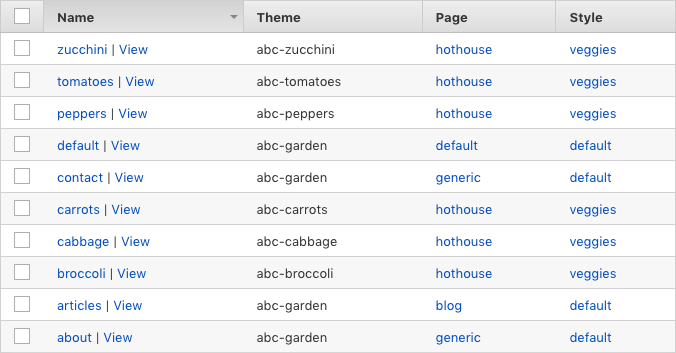
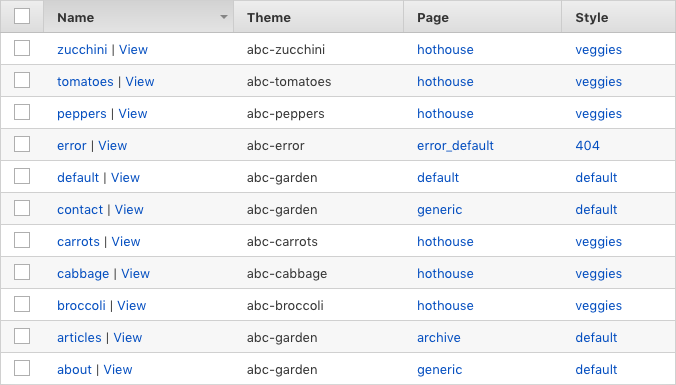
new images and structural revisions

diff --git a/build/themes-creating-using-and-sharing.md b/build/themes-creating-using-and-sharing.md
@@ -390,11 +390,11 @@ We assume at this point that you have now established all your needed themes and
 
 Under the Pages, Forms, and Styles columns of the themes table in the Themes panel are linked numbers indicating how many assets of each type are associated to a given theme; in other words, the theme packages contents (metadata excluded).
 
-![Themes panel assets columns](/img/themes-panel-assets-columns.png)
+![Themes assets numbers indication](/img/themes-assets-numbers-indication.png)
 
 When you duplicate the default theme (as the next image depicts), or any other theme, the existing assets in the source theme are cloned as well, logically, thus why the duplicated themes have the same number.
 
-![Themes panel sections and assets](/img/themes-panel-sections-and-assets.png)
+![Themes sections and assets numbers](/img/themes-sections-and-assets-numbers.png)
 
 These numbers can change between themes, of course, as you add or remove assets in a given theme.
 
@@ -446,7 +446,7 @@ Also, there’s only one page and style asset name in each case. This indicates 
 
 In contrast to assigning assets with common names, as just explained above, you could also assign assets having different names, whether for a new development theme or an existing live theme.
 
-![Themes different asset names indication](/img/themes-different-asset-names-indication.png)
+![Themes different asset names indication](/img/themes-assets-names-indication.png)
 
 As with the appearance of different theme names, the differently assigned asset names also appear above the asset names working live on the front end, separated by dashed lines. If both a new development theme and a differently-named asset are assigned, they will appear aligned across columns by their positions above the dashed lines.
 
@@ -526,13 +526,13 @@ One caveat: The assumption here is we are working in a local development locatio
 
 #### Map the desired structure
 
-Say we have a gardener’s website and the owner wants a different vegetable theme on each of the website’s six main vegetable sections, plus a general theme on the homepage and auxiliary pages using different page templates.
+Say we have a gardener’s website, The Gardener’s Delight, and the owner wants a different vegetable theme on each of the website’s six main vegetable sections, plus a general theme on the homepage and auxiliary pages, and a clever 404 error page having its own dashing design.
 
 This could be structured in any number of ways, but Table 1 shows one possible blueprint for this mapping, which is neither too exaggerated nor ideally concise.
 
 <div class="tabular-data" itemscope itemtype="https://schema.org/Table">
 <table>
-<caption>Table 1. Example mapping of multiple themes to different website sections.</caption>
+<caption>Table 1. Example mapping of the Gardener’s Delight website using multiple themes and assets to different website sections.</caption>
 <thead>
 <tr>
 <th scope="col"></th>
@@ -552,9 +552,9 @@ This could be structured in any number of ways, but Table 1 shows one possible b
 </tr>
 <tr>
 <th scope="row">2</th>
-<td>blog</td>
-<td>abc-garden</td>
 <td>articles</td>
+<td>abc-garden</td>
+<td>archive</td>
 <td>default</td>
 </tr>
 <tr>
@@ -573,41 +573,48 @@ This could be structured in any number of ways, but Table 1 shows one possible b
 </tr>
 <tr>
 <th scope="row">5</th>
+<td>error</td>
+<td>abc-error</td>
+<td>error_default</td>
+<td>404</td>
+</tr>
+<tr>
+<th scope="row">6</th>
 <td>broccoli</td>
 <td>abc-broccoli</td>
 <td>hothouse</td>
 <td>veggies</td>
 </tr>
 <tr>
-<th scope="row">6</th>
+<th scope="row">7</th>
 <td>cabbage</td>
 <td>abc-cabbage</td>
 <td>hothouse</td>
 <td>veggies</td>
 </tr>
 <tr>
-<th scope="row">7</th>
+<th scope="row">8</th>
 <td>carrots</td>
 <td>abc-carrots</td>
 <td>hothouse</td>
 <td>veggies</td>
 </tr>
 <tr>
-<th scope="row">8</th>
+<th scope="row">9</th>
 <td>peppers</td>
 <td>abc-peppers</td>
 <td>hothouse</td>
 <td>veggies</td>
 </tr>
 <tr>
-<th scope="row">9</th>
+<th scope="row">11</th>
 <td>tomatoes</td>
 <td>abc-tomatoes</td>
 <td>hothouse</td>
 <td>veggies</td>
 </tr>
 <tr>
-<th scope="row">10</th>
+<th scope="row">11</th>
 <td>zucchini</td>
 <td>abc-zucchini</td>
 <td>hothouse</td>
@@ -615,7 +622,7 @@ This could be structured in any number of ways, but Table 1 shows one possible b
 </tr>
 </tbody>
 <tfoot><tr><td colspan="5"><ol class="list--refmarks">
-<li>Theme names all begin with a developer prefix; in this case, the prefix reserved for documentation examples, ‘abc’.</li>
+<li>Theme names begin with a developer prefix; in this case, the prefix reserved for documentation examples, ‘abc’.</li>
 <li>The website’s homepage.</li>
 </ol></td></tr></tfoot>
 </table>
@@ -623,61 +630,90 @@ This could be structured in any number of ways, but Table 1 shows one possible b
 
 For clarity, here are the counts and types of theme asset assignments to sections reflected in Table 1:
 
-*  two one-to-one page pairings to sections; i.e. default (1), articles (1)
-*  two one-to-many page pairings to sections; i.e. generic (2), hothouse (6)
-*  two one-to-many style pairings to sections; i.e. default (4), veggies (6).
+*  three one-to-one page pairings to sections: default (1), archive (1), error_default (1)
+*  two one-to-many page pairings to sections: generic (2), hothouse (6)
+*  one one-to-one style pairing to sections: 404 (1)
+*  two one-to-many style pairings to sections: default (4), veggies (6).
 
 The map allows setting up a Textpattern website structure and theme development environment with purpose. With the map at hand, we can use what has already been learned in earlier sections of this document. And if we proceed in a particular order, a lot of jumping around in the back end can be eliminated. (Of course, learning by trial and error is always good too.)
 
-#### Site structure recap 
+#### Site structure recap
 
-First, [create or edit the sections](#add-or-edit-live-sections) you mapped as needing in your blueprints table, and delete the ones you don’t need. It doesn’t matter what page and style you assign to sections when creating them, you will change that later after all theme packages are established. Just use the default options for the time being since you have to assign *something*.
+Remember, the context of this document is a new installation of Textpattern, so that’s where we begin. 
+
+First thing to be done is [create the sections](#add-or-edit-live-sections) you mapped as needing in your blueprints table. Don’t create any new sections if one already exists with the name you need, and don’t edit or delete any existing sections using the sections editor. Existing sections apply to Textpattern’s default theme. We’ll either use what exists or create from scratch.
+
+In this case, we use the two existing default sections: ‘default’ and ‘articles’ (rows 1 and 2 in Table 1). Nothing to do there yet.
+
+Now the remaining nine sections need created. For each one, click the **New section** button. Add the name and title of the section, leave the default theme selected (four-point-eight), and select the blank option for the page and style so no page or style is selected.
+
+![Themes new section blank assets](/img/themes-new-section-blank-assets.png)
+
+Save the new section and repeat the process for the remaining sections needed. Don’t worry about the other form controls yet when creating the sections. You can edit those any time later after the development environment is initially setup.
+
+When all needed sections for the Gardner’s Delight were in place, our Sections panel looked like this:
+
+![Themes newly established sections](/img/themes-newly-established-sections.png)
+
+It’s easy to see the new sections from the defaults, as they don’t have any page or style assignments yet. You could just as well have used any other page or style available in the New section editor when creating the sections, because you’re going to re-assign the templates with development versions anyway, but the blank options make a nice way to get started since it’s easier to see what is needed (or what is lacking).
 
 #### Establish all needed theme packages
 
-This does not mean develop your themes to completion. All you want to do at this point is establish the correctly named packages and ensure the component assets (pages, styles, and forms) are in place with correctly named placeholders.
+This does not mean develop your themes to completion. All you want to do at this point is establish the correctly named packages and ensure the component assets, especially the pages and styles (forms can come later) are in place with correctly named placeholders.
 
-Do this by first determining what will be the ‘original’ theme. In Table 1 the original theme is ‘abc-garden’. The original theme will be used as the source [theme to duplicate](#duplicate-via-theme-editor), thereby creating the other needed themes. 
+Start by [duplicating](#duplicate-via-theme-editor) the default Textpattern theme. You don’t want to edit the default theme. We’ll clone its assets, leave it live, and forget about it.
 
-But here is the important key, as originally mentioned in [Creating theme packages](#creating-theme-packages)! Make sure all possible page and style assets you anticipate needing across all other needed themes are created for the original theme first, even if not needed in a given theme later.
+Now we have our first theme package, abc-garden. The [structure blueprints](#map-the-desired-structure) say we need seven more themes: one for each of the vegetable sections and one for the fancy error page. We’ll use the new abc-garden them as the new theme to duplicate.
 
-Since you’re using this original theme to quickly establish the other themes you need, you want these assets to travel in the duplication process; otherwise, you’ll have to manually create each asset per theme before you can assign the assets to sections in a development environment, a lot of needless hopping around. It’s not a big deal if you have to do that, but why bother with needless tedious repetition.
+But here is the important key, as originally mentioned in [Creating theme packages](#creating-theme-packages)! Make sure all possible page and style assets you anticipate needing across all other needed themes are created for the source theme first, even if not needed in a given theme later. Since you’re using this original theme to quickly establish the other themes you need, you want these assets to travel in the duplication process; otherwise, you’ll have to manually create each asset per theme before you can assign the assets to sections in a development environment, a lot of needless hopping around. It’s not a big deal if you forget and have to do that, but why get waylaid with tedious repetition.
 
-Again, this is why creating a [blueprint map of your structure](#map-the-desired-structure) is useful (Table 1). All your anticipated theme, page, and style needs and names are then clear. 
+Again, this is why creating a [blueprint map of your structure](#map-the-desired-structure) is useful (Table 1). All your anticipated theme, page, and style needs and names are then clear. In this case we need to create two more pages (‘generic’ and ‘hothouse’) and two more styles (‘veggies’ and ‘404’) in the abc-garden theme so they duplicate with the theme. We do this in the Pages and Styles panel in context of the abc-garden them. Here we start with the Pages panel and change context.
 
-You might also make the same consideration for any needed form assets that will be common across a given number of themes. Admittedly, this is more challenging since form snippets are often created on the fly in Textpattern website development. But the idea is the same; except, instead of dumping every possible form in the original theme (if not ultimately needed in that theme), duplicate the original theme with all the pages and styles first, then use the duplicated theme to adjust the forms so they better match what you need in another series of themes, and further duplicate that theme instead.
+![Themes switch context to garden theme](/img/themes-switch-context-to-garden-theme.png)
 
-For example, all the vegetable themes in Table 1 will probably share common forms a little different from the original abc-garden theme (but probably some similarities too). So the original garden theme, now loaded with all possible pages and styles, is duplicated four times to create records 2 through 5. The fifth record, the abc-broccoli theme, then represents a new kind of common theme across the remaining needed themes. It already has all the page and styles from being cloned from abc-garden, but now its forms can be adjusted (if we can think that far ahead about markup needs) to better reflect what the remaining vegetable themes require. Once adjusted, the abc-broccoli theme is duplicated to create those remaining themes, which are then all closer to having what final forms composition they require. It’s not a perfect science, but it can save you a lot of copying and pasting later. At least the refining will be a few steps ahead.  
+When creating your pages and styles, you can either duplicate and rename the templates, using panel controls for such, or just create new, blank files. It doesn’t matter.
 
-Again, important! Theme package assets do not have to be developed correctly yet, they only need to exist; placeholders with correct names. They can even be empty. All you’re doing at this point is getting the development environment pieces set up and ready to be assigned in the least laborious way possible. Once it is all properly assembled and assigned, then you’ll go back and actually work with HTML, Textpattern tags, CSS, and whatever else you desire to fold into your website’s final behaviour and presentation.
+Again, theme package asset files do not have to be developed to function properly yet, they only need to exist; placeholders with correct names. They can be empty or filled with lorem ipsum; it doesn’t matter. All you’re doing at this point is getting the development environment pieces in place to be assigned and aligned together in the least laborious way possible. Once it is all properly assembled and assigned, then you’ll go back and actually work with HTML, Textpattern tags, CSS, and whatever else you desire to fold into your website’s final behaviour and presentation.
+
+**About forms:**
+
+Yes, forms will need developed too, but it’s hard, admittedly, to anticipate what forms you will need this early on. For purposes here we let the original default forms travel in the themes duplication process. As you become more experienced with Textpattern you might be able to add forms to your blueprint mapping too, but even the veterans will create forms on the fly, so don’t worry about it. Just consider forms part of your [actual development process](#html-css-textpattern-tags-etc).
 
 #### Assemble the development environment
 
-Now [assign theme assets to sections](#assigning-theme-assets-to-sections) using the ‘[Change theme/page/style](#change-themepagestyle-controls)’ controls, and according to your [blueprint mapping](#map-the-desired-structure) (Table 1). This is where you will appreciate having duplicated the original theme containing all possible page and style assets.
+Now it is time to [assign theme assets to sections](#assigning-theme-assets-to-sections) using the ‘[Change theme/page/style](#change-themepagestyle-controls)’ controls, and according to [the structural blueprints](#map-the-desired-structure), again (Table 1).
 
-Once everything is aligned, we have the following development setup for our garden website.
+This is where you will appreciate having duplicated the original and subsequent themes in such a way that each contains the necessary range of asset options, thereby avoiding having to abandon the assigning process now to go and create them one by one when you realize a given theme doesn’t have the asset you wanted.
 
-![Themes multi-themes website](/img/themes-multi-themes-development.png)
+Once the desired assets of each theme are aligned with sections correctly, we have the following development setup for our garden website.
 
-Note that any section record that is assigned an asset different from the underlying live asset, whether or not the section was assigned a development theme (e.g. the contact and about sections use the live theme but were assigned different pages), the assigned asset name will appear in the Page and/or Style columns, accordingly. When these assets correspond to a development theme, they will appear aligned with the development theme’s orange ’Development’ pill (e.g. all the vegetable sections).
+![Themes multi-themes development](/img/themes-multi-themes-development.png)
 
-If you peeked into the Themes panel at this point, all of the development themes would have an [orange ‘In use’ pill](#assigned-sections-indication) by their names.
+Note that our assigned assets on the new sections are now sitting over empty slots in the grid. That’s expected in this case. If we had used the default assets in section creation instead of the blanks, we’d be seeing all the blank slots filled with ‘default’ instead, and it wouldn’t make a difference.
 
-Once you have the desired assets assigned to sections per theme, thereby setting up your functional development environment, go back to a given theme’s assets and delete the pages, styles, and forms you don’t need. Keep things tight and tidy.
+Also not that because we assigned abc-garden assets to the two existing sections having the same asset names, there’s no dashed line division to indicate differently named assets. But as you can see by the ‘Development’ pill in the Theme column, there is a different theme assigned on those sections.
+
+If you peeked into the Themes panel at this point, all of the themes would have an orange [‘In use’ pill](#assigned-sections-indication) by their names, except where the software’s live default theme was still functioning.
+
+![Themes multiple orange in use pills](/img/themes-multiple-orange-in-use-pills.png)
+
+Once you have the desired assets assigned to sections per theme, thereby setting up your functional development environment, go back to a given theme’s assets, particularly the pages and styles at this point, and delete the non-assigned items to keep things tight and tidy. For pages and styles this means clicking the red check icon next to the obsolete templates.
+
+![Themes delete obsolete assets](/img/themes-delete-obsolete-assets.png) 
 
 #### HTML, CSS, Textpattern tags, etc.
 
 Now that your development environment is setup, you have clear link associations to all the assigned/necessary asset files, to easily develop page templates, stylesheets, and form snippets to completion for each theme.
 
-In the Themes panel, your [package assets are accessible via their numbered indicators](#package-assets-indication) under the Pages, Styles, and Forms columns.
+In the Themes panel, your package assets are accessible via their [numbered indicators](#package-assets-indication), under the Pages, Styles, and Forms columns, as per the current example project (pages and styles have been adjusted, but no attention was given to forms at this point). 
 
-![Themes panel assets columns](/img/themes-panel-assets-columns.png)
+![Themes assets numbers indication 2](/img/themes-assets-numbers-indication-2.png)
 
 Likewise, in the Sections panel, you have direct links to the [assigned page and style assets by their name](#different-asset-names-indication).
 
-![Themes different asset names indication](/img/themes-different-asset-names-indication.png)
+![Themes asset names indication-2](/img/themes-asset-names-indication-2.png)
 
-If it is easier for you to empty out your asset files and start from blank screens, do it. If you can refactor the markup already in duplicated assets, great. Whatever way you like or prefer, now is the time to actually *develop* your assets. They are already created and aligned in your architecture, you just have to make them functional and pretty.
+If it is easier for you to empty out your asset files and start from blank screens (assuming you originally duplicated them instead of creating them new), do it. If you can refactor the markup already in duplicated assets, great. Whatever way you like or prefer, now is the time to actually *develop* your templates, CSS, and Textpattern tag logic. They are already created and aligned in your architecture, you just have to make them functional and pretty.
 
 As your mad creativity unleashes, periodically visit the Sections panel and [follow the ‘View’ links](#view-theme-presentation) to see how the presentation is shaping up on the front end. In fact, as long as the [development themes preference](#development-themes-preference) is active, you’ll see the development environment on the front end no matter what front-side link you follow from the administration side (e.g. the homepage link via the back-end navigation bar).
 
